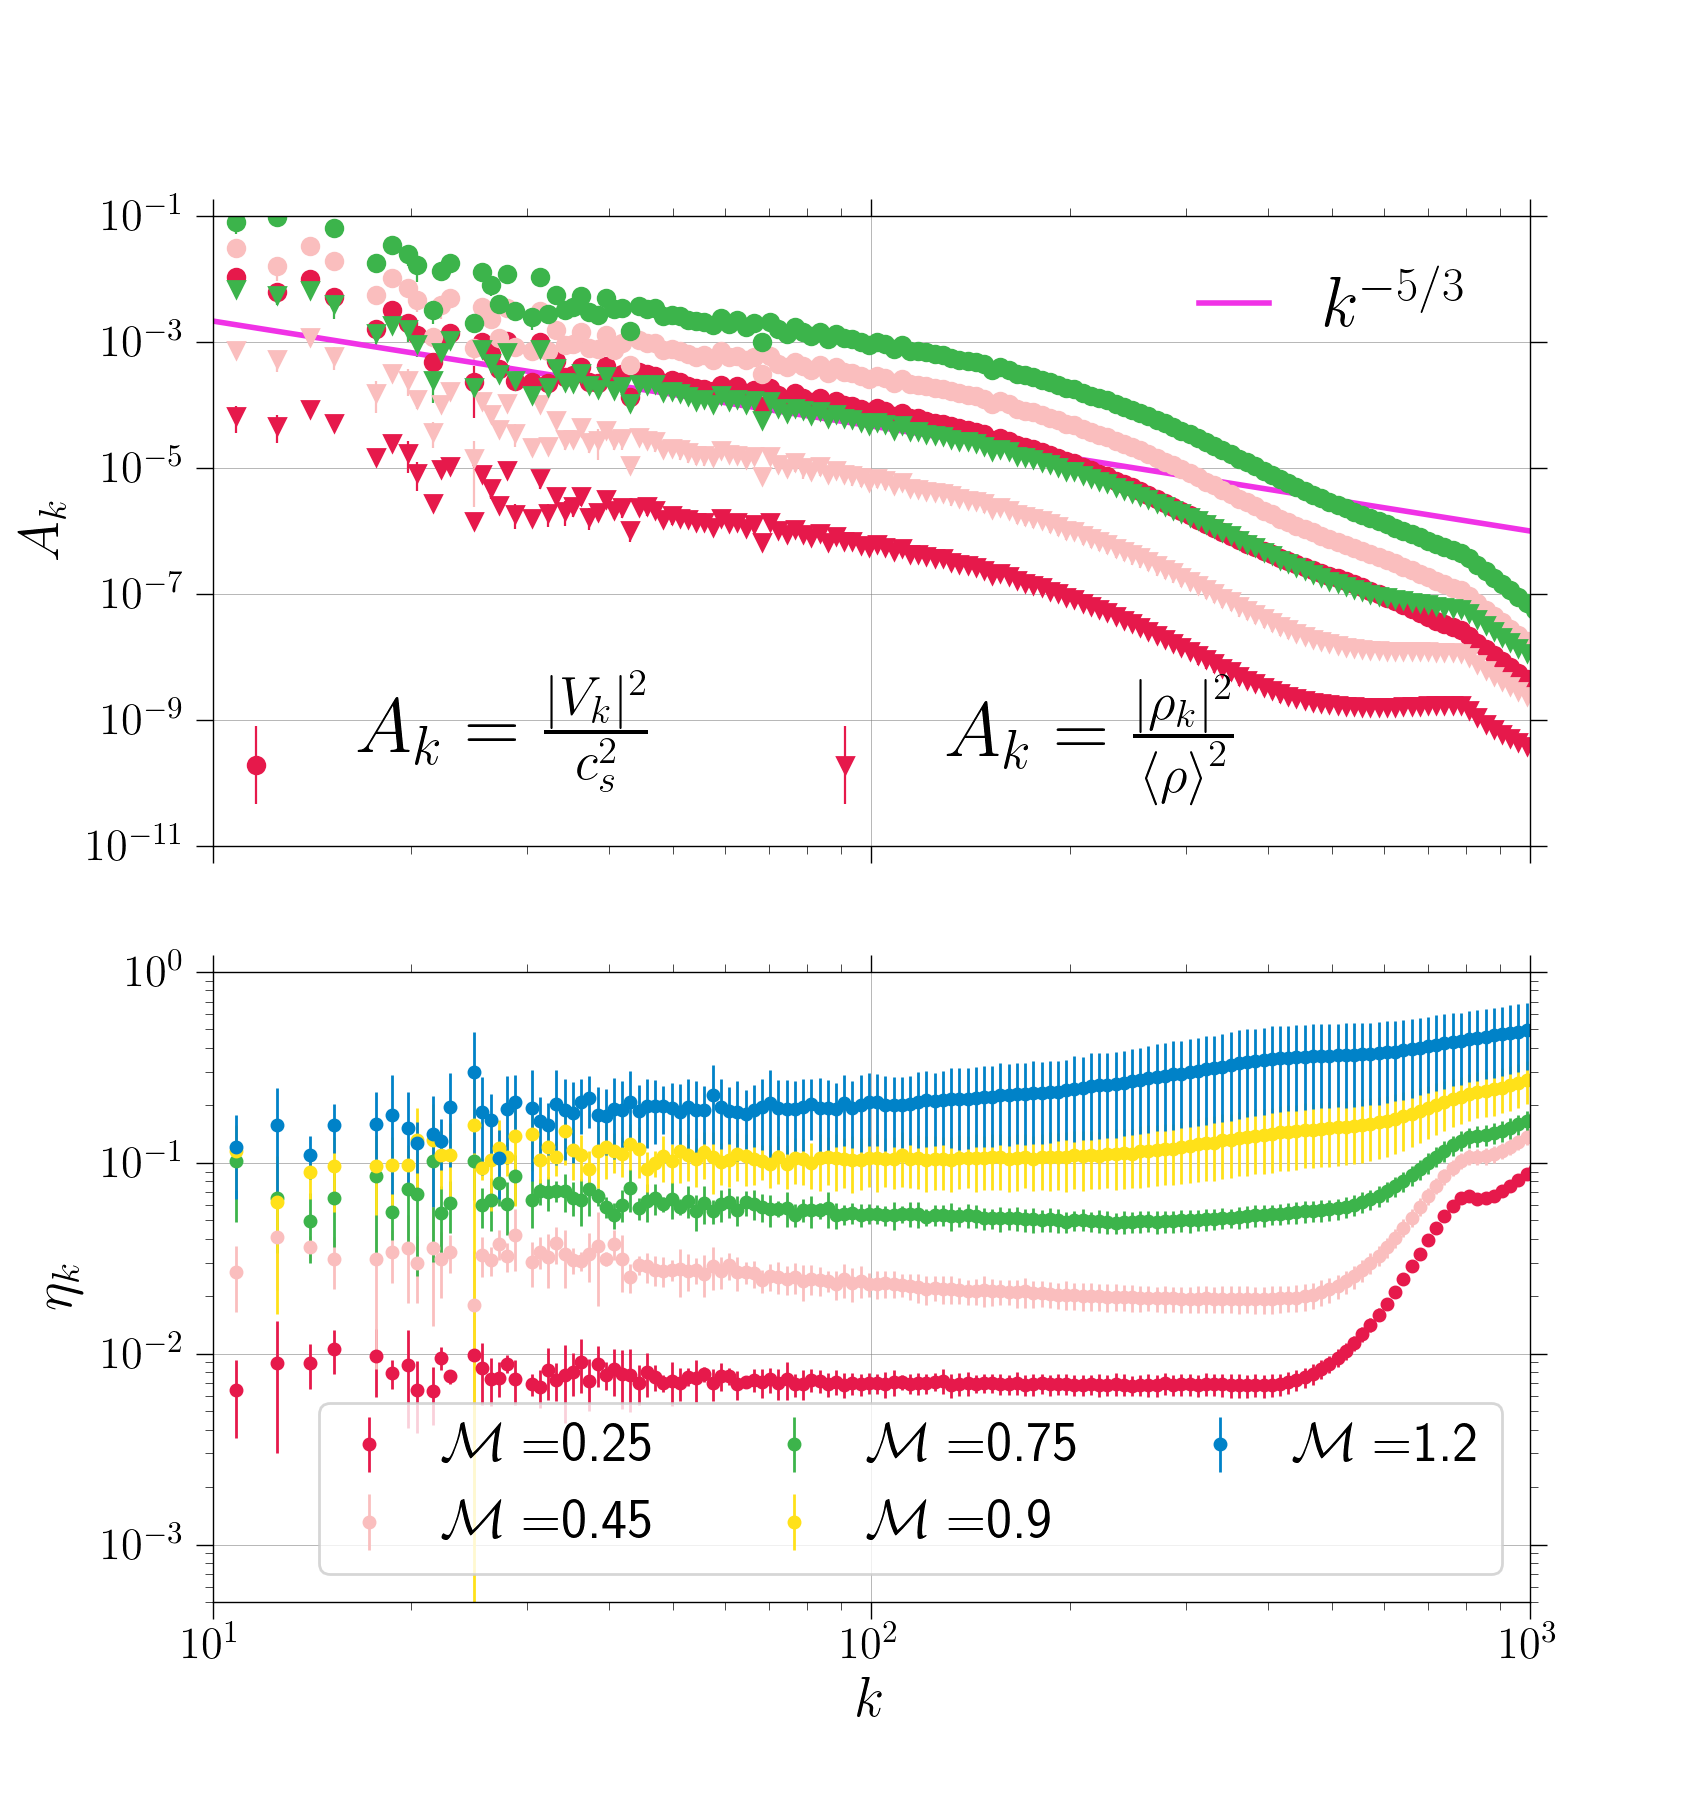
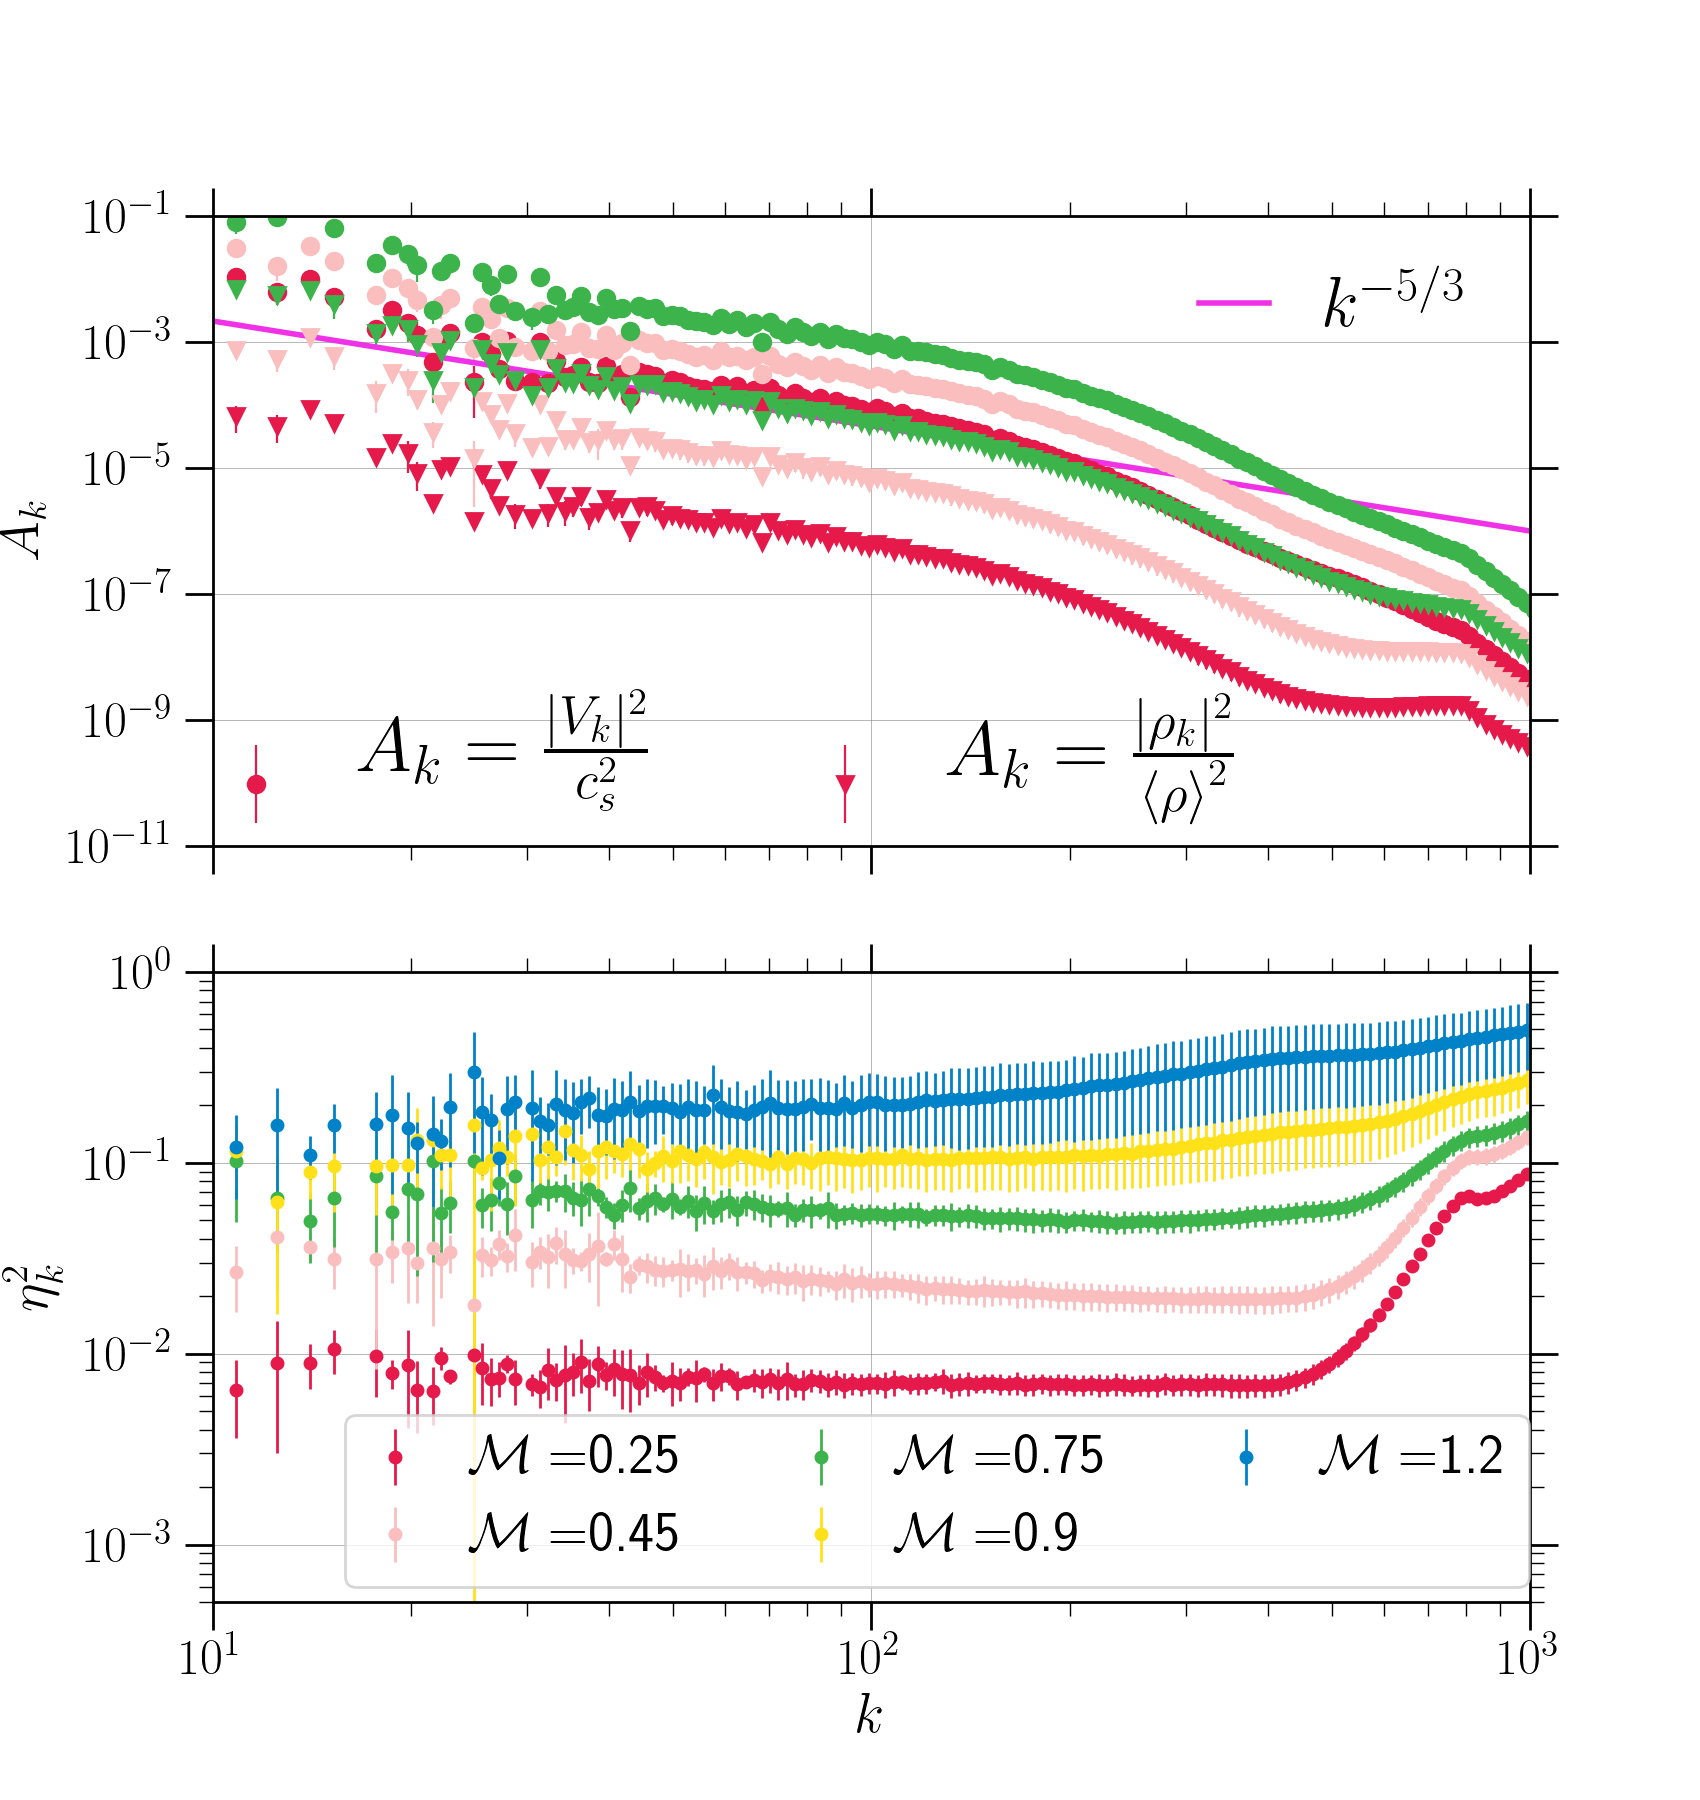
Edited plots

diff --git a/surface_brightness/sbk_rhok.py b/surface_brightness/sbk_rhok.py
@@ -8,25 +8,27 @@ import pylab as plot
 import pyPLUTO as pp
 
 #plt.style.use('classic')
-params = {'legend.fontsize':5.5,
-          'legend.handlelength': 0.5}
-plt.rcParams['axes.linewidth'] = .5
-plt.rcParams['xtick.major.size'] = 1.
-plt.rcParams['xtick.minor.size'] = .5
-plt.rcParams['ytick.major.size'] = 1.5
-plt.rcParams['ytick.minor.size'] = .5
-plt.rcParams['xtick.labelsize'] = 6.
-plt.rcParams['ytick.labelsize'] = 6.
+
+params = {'legend.fontsize':16,
+          'legend.handlelength': 1.0}
+plt.rcParams['axes.linewidth'] = 1.0
+plt.rcParams['xtick.major.size'] = 16
+plt.rcParams['xtick.minor.size'] = 8
+plt.rcParams['ytick.major.size'] = 14
+plt.rcParams['ytick.minor.size'] = 7
+plt.rcParams['xtick.labelsize'] = 18
+plt.rcParams['ytick.labelsize'] = 18
 plot.rcParams.update(params)
 
 plt.rc('text', usetex=True)
+
 
 #Compute how long the simulation takes
 start_time = time.time()
 
 #Initialise the figure
 fig, (ax1, ax2) = plt.subplots(2, 1, sharex=True)
-fig.set_size_inches(3.6, 3.1)
+fig.set_size_inches(8.5, 9.0)
 
 amp=np.array((0.005, 0.02, 0.1, 0.1, 0.9,2.5))
 mach=((0.25, 0.45, 0.75, 0.90, 1.2, 2.1))
@@ -87,47 +89,47 @@ for i in xrange(amp.size):
 	if (j==0): 
 		leg1=r'$A_k=\frac{|\rho_k|^2}{\left<\rho\right>^2}$'
 		leg2=r'$A_k=\frac{|SB_k|^2}{\left<SB\right>^2}$'
-		spectra[2*j]=ax1.errorbar(k1[1:-20], Ek1[1:-20], fmt='d', yerr=del_Ek1[1:-20], color=colors[j], markeredgecolor=None, markersize=2.0, ecolor=None, capsize=None, barsabove=False, label=leg1, elinewidth=0.5)
-		spectra[2*j+1]=ax1.errorbar(k2[1:-20], Ek2[1:-20], yerr=del_Ek2[1:-20], fmt='*', color=colors[j], markeredgecolor=None, markersize=2.0, ecolor=None, capsize=None, barsabove=False, label=leg2, elinewidth=0.5)
+		spectra[2*j]=ax1.errorbar(k1[1:-20], Ek1[1:-20], fmt='o', yerr=del_Ek1[1:-20], color=colors[j], markeredgecolor=None, markersize=6.0, ecolor=None, capsize=None, barsabove=False, label=leg1, elinewidth=1.0)
+		spectra[2*j+1]=ax1.errorbar(k2[1:-20], Ek2[1:-20], yerr=del_Ek2[1:-20], fmt='v', color=colors[j], markeredgecolor=None, markersize=6.0, ecolor=None, capsize=None, barsabove=False, label=leg2, elinewidth=1.0)
 	elif (j<4):
-		ax1.errorbar(k1[1:-20], Ek1[1:-20], fmt='d', yerr=del_Ek1[1:-20], color=colors[j], markeredgecolor=None, markersize=2.0, ecolor=None, capsize=None, barsabove=False, elinewidth=0.5)
-		ax1.errorbar(k2[1:-20], Ek2[1:-20], yerr=del_Ek2[1:-20], fmt='*', color=colors[j], markeredgecolor=None, markersize=2.0, ecolor=None, capsize=None, barsabove=False, elinewidth=0.5)
+		ax1.errorbar(k1[1:-20], Ek1[1:-20], fmt='o', yerr=del_Ek1[1:-20], color=colors[j], markeredgecolor=None, markersize=5.0, ecolor=None, capsize=None, barsabove=False, elinewidth=1.0)
+		ax1.errorbar(k2[1:-20], Ek2[1:-20], yerr=del_Ek2[1:-20], fmt='v', color=colors[j], markeredgecolor=None, markersize=5.0, ecolor=None, capsize=None, barsabove=False, elinewidth=1.0)
 
-	ax2.errorbar(k2[1:-20], ratio_k[1:-20], yerr=del_ratiok[1:-20], fmt='o', color=colors[j], markeredgecolor=None, markersize=1.5, ecolor=None, capsize=None, barsabove=False, label= '$\mathcal{M}=$'+str(mach[i]), elinewidth=0.5)
+	ax2.errorbar(k2[1:-20], ratio_k[1:-20], yerr=del_ratiok[1:-20], fmt='o', color=colors[j], markeredgecolor=None, markersize=4.0, ecolor=None, capsize=None, barsabove=False, label= '$\mathcal{M}=$'+str(mach[i]), elinewidth=1.0)
 
 
-ax1.tick_params(axis='both', which='major', direction='out', length=6, width=0.5, top=True, right=True)
-ax1.tick_params(axis='both', which='minor', direction='out', length=3, width=0.25, top=True, right=True)
-ax1.grid(color='grey', linestyle='-', linewidth=0.2)
-spectra_legend=ax1.legend(handles=spectra, loc='lower left', ncol=4, fontsize=10.)
+ax1.tick_params(axis='both', which='major', direction='out', length=10, width=1.0, top=True, right=True)
+ax1.tick_params(axis='both', which='minor', direction='out', length=5, width=0.5, top=True, right=True)
+ax1.grid(color='grey', linestyle='-', linewidth=0.3)
+spectra_legend=ax1.legend(handles=spectra, loc='lower left', bbox_to_anchor=(-.05, -.07), ncol=4, fontsize=28.)
 ax1.add_artist(spectra_legend)
 spectra_legend.get_frame().set_alpha(0.)
 
 x=np.arange(10., 10**3., 1.)
-fit[0], = ax1.plot(x, 1e-3*x**(-5./3.), label=r'$k^{-5/3}$', linewidth=0.8, color=colors[8])
-fit[1], = ax1.plot(x, 8e-8*x**(-8./3.), label=r'$k^{-8/3}$', linewidth=0.8, color=colors[9])
-fit_legend=ax1.legend(handles=fit, loc='upper right', bbox_to_anchor=(1., 1.0), ncol=2, fontsize=6.5)
+fit[0], = ax1.plot(x, 1e-3*x**(-5./3.), label=r'$k^{-5/3}$', linewidth=2.0, color=colors[8])
+fit[1], = ax1.plot(x, 8e-8*x**(-8./3.), label=r'$k^{-8/3}$', linewidth=2.0, color=colors[9])
+fit_legend=ax1.legend(handles=fit, loc='upper right', bbox_to_anchor=(1.04, 1.05), ncol=2, fontsize=25.)
 fit_legend.get_frame().set_alpha(0.)
 
 ax1.add_artist(fit_legend)
 ax1.set_yscale('log')
 ax1.set_xscale('log')
-#ax1.set_ylabel(r'$A_k$', fontsize=5.)
-ax1.set_title(r'$A_k$ vs $k$', fontsize=6.)
+ax1.set_ylabel(r'$A_k$', fontsize=20.)
+#ax1.set_title(r'$A_k$ vs $k$', fontsize=20.)
 ax1.set_xlim(1e1, 1e3)
 ax1.set_ylim(1e-20,1e-2)
-ax2.set_ylabel(r'$R_k$', fontsize=6.)
+ax2.set_ylabel(r'$R_k$', fontsize=20.)
 
 #ax2.set_ylabel(r'$\left(\frac{|\rho_k|^2}{\left<\rho\right>^2}\right)/\left(k\frac{|SB_k|^2}{\left<SB\right>^2}\right)$', fontsize=5.)
-ax2.set_xlabel('$k$', fontsize=5.)
+ax2.set_xlabel('$k$', fontsize=20.)
 ax2.set_ylim(1e3,1e5)
-ax2.tick_params(axis='both', which='major', direction='out', length=6, width=0.5, top=True, right=True)
-ax2.tick_params(axis='both', which='minor', direction='out', length=3, width=0.25, top=True, right=True)
-ax2.grid(color='grey', linestyle='-', linewidth=0.2)
+ax2.tick_params(axis='both', which='major', direction='out', length=10, width=1.0, top=True, right=True)
+ax2.tick_params(axis='both', which='minor', direction='out', length=5, width=0.5, top=True, right=True)
+ax2.grid(color='grey', linestyle='-', linewidth=.3)
 ax2.set_yscale('log')
 ax2.set_xscale('log')
-ax2.legend(loc='upper right', bbox_to_anchor=(1., 1.0), ncol=2, fancybox=True, framealpha=0., fontsize=7.)
+ax2.legend(loc='upper right', bbox_to_anchor=(1.0, 1.05), ncol=2, fancybox=True, framealpha=0.8, fontsize=20.)
 
 #plt.show()
-plt.savefig('SBk_rhok.png', dpi=400)
+plt.savefig('SBk_rhok.png', dpi=250)
 plt.close()

diff --git a/rho-mach/density_mach_256.py b/rho-mach/density_mach_256.py
@@ -3,16 +3,15 @@ import matplotlib.pyplot as plt
 import pylab as plot
 
 #plt.style.use('classic')
-params = {'legend.fontsize':14,
-          'legend.handlelength': 2}
-plt.rcParams['axes.linewidth'] = 0.5
-plt.rcParams['xtick.major.size'] = 8
-plt.rcParams['xtick.minor.size'] = 4
-plt.rcParams['ytick.major.size'] = 6
-plt.rcParams['ytick.minor.size'] = 3
-plt.rcParams['ytick.minor.size'] = 3
-
-
+params = {'legend.fontsize':16,
+          'legend.handlelength': 1.0}
+plt.rcParams['axes.linewidth'] = 1.0
+plt.rcParams['xtick.major.size'] = 16
+plt.rcParams['xtick.minor.size'] = 8
+plt.rcParams['ytick.major.size'] = 14
+plt.rcParams['ytick.minor.size'] = 7
+plt.rcParams['xtick.labelsize'] = 18
+plt.rcParams['ytick.labelsize'] = 18
 plot.rcParams.update(params)
 
 plt.rc('text', usetex=True)
@@ -22,7 +21,8 @@ plt.rc('text', usetex=True)
 #Load data files
 amp=np.array((0.1,0.9,2.5))
 t_start=np.array((2.0,1.0,0.5))
-perturb = [None] * (amp.size*2)
+perturb1 = [None] * (amp.size)
+perturb2 = [None] * (amp.size)
 fit = [None] * 2
 #t_start sets time at which statistical equilibrium has been reached
 
@@ -41,18 +41,22 @@ for i1 in xrange(0,np.shape(amp)[0]):
 	    break
 	data=data[:][i:]
 	#Ignore data before statistical equilibrium state
-	#Plot the data 
-	perturb[i1], =ax.plot(data[:,11],1.5*data[:,12],label=r'$\frac{1.5\left<\delta\rho\right>_{rms}}{\left<\rho\right>}$, $A_{turb}=$'+str(amp[i1]), color=colors[2*i1], marker=".", markeredgecolor='none', markersize=0.1, linewidth=1)
-	perturb[i1+3], =ax.plot(data[:,11],data[:,13],label=r'$\frac{\left<\delta P\right>_{rms}}{\left< P\right>}$, $A_{turb}=$'+str(amp[i1]), color=colors[2*i1+1], marker="d", markeredgecolor='none', markersize=0.1, linewidth=1.0)
+	#Plot the data
+	if (i1==0): 
+		perturb1[i1], =ax.plot(data[:,11],1.5*data[:,12],label=r'$\delta R=\frac{1.5\left<\delta\rho\right>_{rms}}{\left<\rho\right>}$, $A_{turb}=$'+str(amp[i1]), color=colors[2*i1], marker=".", markeredgecolor='none', markersize=0.1, linewidth=1)
+		perturb2[i1], =ax.plot(data[:,11],data[:,13],label=r'$\delta R=\frac{\left<\delta P\right>_{rms}}{\left< P\right>}$, $A_{turb}=$'+str(amp[i1]), color=colors[2*i1+1], marker="d", markeredgecolor='none', markersize=0.1, linewidth=1.0)
+	else: 
+		perturb1[i1], =ax.plot(data[:,11],1.5*data[:,12],label=r'$A_{turb}=$'+str(amp[i1]), color=colors[2*i1], marker=".", markeredgecolor='none', markersize=0.1, linewidth=1)
+ 
+		perturb2[i1], =ax.plot(data[:,11],data[:,13],label=r'$A_{turb}=$'+str(amp[i1]), color=colors[2*i1+1], marker="d", markeredgecolor='none', markersize=0.1, linewidth=1.0)
 
 fig.set_size_inches(8, 6)
 ax.set_xlabel(r'$\left< \mathcal{M}\right>_{rms}$', fontsize=16)
-ax.set_ylabel(r'$\frac{1.5\left<\delta\rho\right>_{rms}}{\left<\rho\right>}$, $\frac{\left<\delta P\right>_{rms}}{\left< P\right>}$', fontsize=16)
+ax.set_ylabel(r'$\delta R$', fontsize=16)
+#ax.set_ylabel(r'$\frac{1.5\left<\delta\rho\right>_{rms}}{\left<\rho\right>}$, $\frac{\left<\delta P\right>_{rms}}{\left< P\right>}$', fontsize=16)
 x1=np.arange(0.3,0.8,0.002)
 y=np.arange(0.8,1.6,0.002)
 
-plt.xticks(fontsize=14)
-plt.yticks(fontsize=14)
 
 fit[0],= ax.plot(x1,0.6*x1**2,label=r'$\left< \mathcal{M}\right>_{rms}^2$', color=colors[9], linewidth=2.)
 fit[1],= ax.plot(y,0.48*y**1,label=r'$\left< \mathcal{M}\right>_{rms}$', color=colors[6], linewidth=2.)
@@ -68,14 +72,17 @@ box = ax.get_position()
 ax.set_position([box.x0, box.y0, box.width, box.height])
 # Put a legend to the bottom of the current axis
 
-perturb_leg=ax.legend(handles=perturb, loc='lower right', bbox_to_anchor=(1., 0.0), ncol=2, fontsize=16)
-ax.add_artist(perturb_leg)
-perturb_leg.get_frame().set_alpha(0.)
-fit_leg=ax.legend(handles=fit, loc='upper left', bbox_to_anchor=(0., 1.0), ncol=2, fontsize=16)
+perturb1_leg=ax.legend(handles=perturb1, loc='upper left', bbox_to_anchor=(-0.05, 1.0), ncol=1, fontsize=25)
+ax.add_artist(perturb1_leg)
+perturb1_leg.get_frame().set_alpha(0.)
+perturb2_leg=ax.legend(handles=perturb2, loc='upper right', bbox_to_anchor=(1.05, 0.6), ncol=1, fontsize=25)
+ax.add_artist(perturb2_leg)
+perturb2_leg.get_frame().set_alpha(0.)
+fit_leg=ax.legend(handles=fit, loc='lower left', bbox_to_anchor=(0., 0.0), ncol=2, fontsize=25)
 fit_leg.get_frame().set_alpha(0.)
 
 ax.grid(color='black', linestyle='dashed', linewidth=.5, axis='x')
-ax.tick_params(axis='both', which='major', direction='out', length=6, width=0.75, top=True, right=True)
-ax.tick_params(axis='both', which='minor', direction='out', length=3, width=0.5, top=True, right=True)
+ax.tick_params(axis='both', which='major', direction='out', length=10, width=1.0, top=True, right=True)
+ax.tick_params(axis='both', which='minor', direction='out', length=5, width=0.5, top=True, right=True)
 plt.savefig('rho-mach-256.png',dpi=250)
 

diff --git a/All_analysis/rho-vel-spectra.py b/All_analysis/rho-vel-spectra.py
@@ -6,16 +6,16 @@ from scipy.optimize import curve_fit
 from scipy import stats
 import pylab as plot
 #plt.style.use('classic')
+
 params = {'legend.fontsize':16,
           'legend.handlelength': 1.0}
-plt.rcParams['axes.linewidth'] = .5
-plt.rcParams['xtick.major.size'] = 8
-plt.rcParams['xtick.minor.size'] = 4
-plt.rcParams['ytick.major.size'] = 6
-plt.rcParams['ytick.minor.size'] = 3
-plt.rcParams['ytick.minor.size'] = 3
-plt.rcParams['xtick.labelsize'] = 16 
-plt.rcParams['ytick.labelsize'] = 16 
+plt.rcParams['axes.linewidth'] = 1.0
+plt.rcParams['xtick.major.size'] = 16
+plt.rcParams['xtick.minor.size'] = 8
+plt.rcParams['ytick.major.size'] = 14
+plt.rcParams['ytick.minor.size'] = 7
+plt.rcParams['xtick.labelsize'] = 18
+plt.rcParams['ytick.labelsize'] = 18
 plot.rcParams.update(params)
 
 plt.rc('text', usetex=True)
@@ -123,25 +123,25 @@ ax1.set_ylabel('$A_k$', fontsize=20.)
 #ax1.set_ylabel(r'$\frac{V_k^2}{c_s^2}$, $\frac{\rho_k^2}{\left<\rho\right>^2}$', fontsize=18)
 ax1.set_ylim(1.e-11,1e-1)
 ax1.set_xlim(1.e1,1e3)
-ax1.tick_params(axis='both', which='major', direction='out', length=6, width=0.5, top=True, right=True)
-ax1.tick_params(axis='both', which='minor', direction='out', length=3, width=0.25, top=True, right=True)
+ax1.tick_params(axis='both', which='major', direction='out', length=10, width=1.0, top=True, right=True)
+ax1.tick_params(axis='both', which='minor', direction='out', length=5, width=0.5, top=True, right=True)
 ax1.grid(color='grey', linestyle='-', linewidth=0.2)
-spectra_legend=ax1.legend(handles=spectra, loc='lower left', bbox_to_anchor=(-0.05, -0.05), ncol=2, fancybox=True, framealpha=0., fontsize=28.)
+spectra_legend=ax1.legend(handles=spectra, loc='lower left', bbox_to_anchor=(-0.05, -0.08), ncol=2, fancybox=True, framealpha=0., fontsize=28.)
 ax1.add_artist(spectra_legend)
 ax1.legend(handles=[fit], loc='upper right', bbox_to_anchor=(1., 1.0), ncol=1, fancybox=True, framealpha=0., fontsize=25.)
 
 ax2.set_yscale('log')
 ax2.set_xscale('log')
 ax2.set_xlabel('$k$', fontsize=20)
-ax2.set_ylabel('$\eta_k$', fontsize=20)
+ax2.set_ylabel('$\eta_k^2$', fontsize=20)
 #ax2.set_ylabel(r'$\frac{V_k^2}{c_s^2}/\frac{\rho_k^2}{\left<\rho\right>^2}$', fontsize=18)
 ax2.set_ylim(5.e-4,1.)
 ax2.set_xlim(1.e1,1e3)
-ax2.legend(loc='lower right',  ncol=3, fancybox=True, framealpha=0.8, fontsize=20)
+ax2.legend(loc='lower right',  ncol=3, fancybox=True, bbox_to_anchor=(1.02, -0.02), framealpha=0.8, fontsize=20)
 #ax.set_title(r'Ratio of velocity and density power spectra' )
 ax2.grid(color='grey', linestyle='-', linewidth=0.2)
-ax2.tick_params(axis='both', which='major', direction='out', length=6, width=0.5, top=True, right=True)
-ax2.tick_params(axis='both', which='minor', direction='out', length=3, width=0.25, top=True, right=True)
+ax2.tick_params(axis='both', which='major', direction='out', length=10, width=1.0, top=True, right=True)
+ax2.tick_params(axis='both', which='minor', direction='out', length=5, width=0.5, top=True, right=True)
 plt.savefig('ratio-rho-vel-spectra.png',dpi=200)
 
 print("--- %s seconds ---" % (time.time() - start_time))
